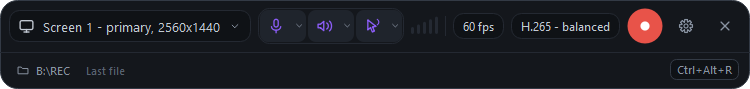
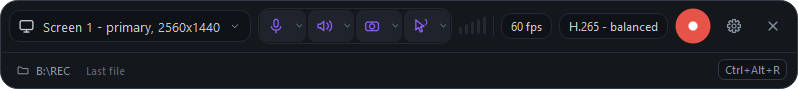
The published pages still described 0.1.0's program
The two pictures of the bar were taken on 2026-11-05 and show a bar with no
camera button - a program that no longer exists. Re-shot in the same style,
same labels, same states, with the camera on.

The README gained a section for the camera, which was the headline of 0.2.0 and
was mentioned only in a table row; the settings picture moved onto a line of its
own, because it is an 820x720 window now and not a tall column beside a
paragraph; and `settings_widgets` joined the module list.

The page: the bar's alt text named the toggles it had, two of five. A new honest
limit, because it is a real trade-off and had only been written up as a feature -
the camera is a window, so you see it while you record and so does anyone sharing
your screen. And the scaling limit was half wrong: the settings window *was*
checked at 125 / 150 / 200 %, the rest of the interface was not, and the entry
now says which is which.

RELEASE_PLAN.md planned a per-user installer and a zip. What shipped asks for
administrator and is an installer, twice. The plan is left as the plan with the
difference written next to it rather than edited out.

Counts refreshed: 2105 tests, 83 files swept.

diff --git a/docs/index.html b/docs/index.html
@@ -130,7 +130,7 @@
   </aside>
 
   <img class="shot bar" src="images/recorder-idle.png"
-       alt="The ScreenRec bar: the screen to record, microphone and system sound, frame rate, format, folder and hotkey">
+       alt="The ScreenRec bar: the screen to record, microphone, system sound and camera, the pointer, frame rate, format, folder and hotkey">
 
   <h2>While it records, it gets out of the way</h2>
   <p>The bar shrinks to a clock, the size of the file so far, and the frame rate it is
@@ -270,7 +270,7 @@
     encoders, written from their documented options and guarded so that an unsupported
     path falls back to the processor rather than failing. But the author has one NVIDIA
     card and no way to run the others. If your machine takes the processor path when it
-    should not, that is worth a bug report — the settings panel will tell you which
+    should not, that is worth a bug report — the settings will tell you which
     encoder it chose and why.</p>
   </details>
   <details>
@@ -287,10 +287,19 @@
     apart two screens started, so a multi-screen take has to be lined up by hand there.</p>
   </details>
   <details>
-    <summary>Three or more monitors, and display scaling, are unverified</summary>
+    <summary>The camera is on your screen too, not only in the file</summary>
+    <p>It is drawn on the desktop, which is how it reaches the recording without costing
+    the capture anything and how it can be taken away mid-take. The price is that it is
+    a window: you see it while you record, and so does anyone looking over your shoulder
+    or sharing your screen in a call.</p>
+  </details>
+  <details>
+    <summary>Three or more monitors are unverified, and so is most of the scaling</summary>
     <p>Two monitors are tested thoroughly, including one unplugged mid-playback. Three
-    screens work in the code and in the tests but have never been run on real hardware,
-    and neither has 125 %, 150 % or 200 % display scaling.</p>
+    screens work in the code and in the tests but have never been run on real hardware.
+    Display scaling: the settings window was checked at 125 %, 150 % and 200 %, where it
+    scrolls rather than clipping — the rest of the interface has only ever run at
+    100 %, because both of the author's screens are.</p>
   </details>
   <details>
     <summary>Windows only</summary>

diff --git a/README.md b/README.md
@@ -66,6 +66,27 @@ drawings reach the file; the toolbar never does:
 
 ![Drawing over the screen](docs/images/annotate-over-screen.png)
 
+## Your camera in a corner
+
+Four corners, four sizes, and a rounded rectangle, a circle or a plain rectangle. The
+camera is **drawn on the desktop** rather than mixed in by the encoder, and two things
+follow from that: the recording picks it up the way it picks up the click rings, and you
+can see it on your own screen while you record.
+
+A third thing follows too, and it is the useful one. The camera can be switched off
+**in the middle of a recording**, from a button on the bar, when it ends up on top of
+whatever you are demonstrating — the recording carries on untouched, because nothing
+about ffmpeg's inputs has changed. Measured on a real take, with a flat colour in the
+overlay instead of a camera: before the switch, 11,745 of 11,890 sampled pixels in the
+camera's rectangle were that colour; after it, 0.
+
+The camera also runs at a resolution that suits the little window rather than at 1080p —
+chosen for you, or picked from its own list, which says what frame rate each mode can
+really manage. That matters more than it sounds: on the camera this was written against,
+the two largest modes run at **2 frames a second**, so "the biggest" is a trap.
+
+![The camera page of the settings](docs/images/recorder-camera.png)
+
 ## The player
 
 A recording of two monitors is two files, not one picture with both screens squashed
@@ -115,8 +136,14 @@ So the window offers the trade-off by name rather than a codec list, and shows w
 minute will cost for the screen you are about to capture. Once there are real recordings
 to go on, that figure stops being an estimate and says "measured on this machine":
 
-![Settings](docs/images/recorder-settings.png) The full table, and the three
-ways this benchmark lied before it was fixed, are in `docs/HANDOVER.md`.
+![Settings](docs/images/recorder-settings.png)
+
+The settings are five pages behind the gear — Recording, Sound, Camera, Control,
+General. They were one column 1375 px tall until it turned out to be taller than the
+screen it had to open on.
+
+The full table, and the three ways this benchmark lied before it was fixed, are in
+`docs/HANDOVER.md`.
 
 Two hardware facts, both measured: `av1_nvenc` is listed by this ffmpeg but the RTX 3070
 Ti cannot use it (Ampere has no AV1 encoder), and 4:4:4 cannot stay on the GPU - there is
@@ -151,8 +178,9 @@ app\run_player.pyw        the player
 app\screenrec\           paths, winapi, config, audio, recorder, encoders,
                          capabilities, multi, hotkeys, clicks, overlay, webcam,
                          takes, storage, i18n
-app\screenrec\ui\        theme, surfaces, bar, settings_panel, sources,
-                         thumbnails, countdown, captureframe, tray, icons, app
+app\screenrec\ui\        theme, surfaces, bar, settings_panel,
+                         settings_widgets, sources, thumbnails, countdown,
+                         captureframe, tray, icons, app
 app\screenrec\player\    engine, window, stage, panes, chooser, layouts,
                          library, open
 app\screenrec\annotate\  model, canvas, toolbar, textbox

diff --git a/docs/RELEASE_PLAN.md b/docs/RELEASE_PLAN.md
@@ -26,8 +26,9 @@ What exists now, and what was measured rather than assumed:
 | `ScreenRec.spec` | two executables, one `onedir` folder, WebEngine and the rest excluded |
 | `tools/make_icons.py` | both `.ico` files rendered from the app's own drawing code |
 | `tools/build_release.py` | icons, PyInstaller, ffmpeg, licences, and a report |
-| `packaging/ScreenRec.iss` | the installer: per-user, no administrator |
+| `packaging/ScreenRec.iss` | the installer. It says per-user below because that was the plan; what shipped asks for administrator and installs into `C:\Program Files` for everyone, after the user asked for it |
 | `dist/ScreenRec-0.1.0-setup.exe` | **131 MB**, from 462 MB installed |
+| `dist/ScreenRec-0.2.0-setup.exe` | **133 MB**, from 491 MB installed - the camera brought QtMultimedia in |
 
 **Proven on this machine, in this order:**
 
@@ -209,9 +210,11 @@ at all. So: never `--add-binary` ffmpeg into `_internal`. Copy the folder.
    user name. Record with system sound, stop on the hotkey, open the result in the player.
    Three actions, and they cover every trap above. No unit test reaches them.
 
-Release assets for `v0.1.0`: `ScreenRec-0.1.0-win64.zip`, the FFmpeg source archive for
-the pinned commit, and `SHA256SUMS.txt`. The release text carries the hashes, the GPL
-paragraph pointing at the source asset, and an honest paragraph about SmartScreen.
+Release assets, as planned here: a zip, the FFmpeg source archive for the pinned commit,
+and `SHA256SUMS.txt`. **What was actually published** for `v0.1.0` and `v0.2.0` is the
+installer in place of the zip - see the first table - with the same two other assets.
+The release text carries the hashes, the GPL paragraph pointing at the source asset, and
+an honest paragraph about SmartScreen.
 
 ---
 

diff --git a/docs/HANDOVER.md b/docs/HANDOVER.md
@@ -737,8 +737,8 @@ in this code.
 
 ### Where both programs stand
 
-    1961 unit tests                     OK (2 skipped)
-    tools/static_review.py              78 files, nothing found
+    2105 unit tests                     OK (2 skipped)
+    tools/static_review.py              83 files, nothing found
     tools/check_translations.py         every translatable string has Russian
     tools/verify_layouts.py             23 of 23
     tools/verify_sources.py             39 of 39
